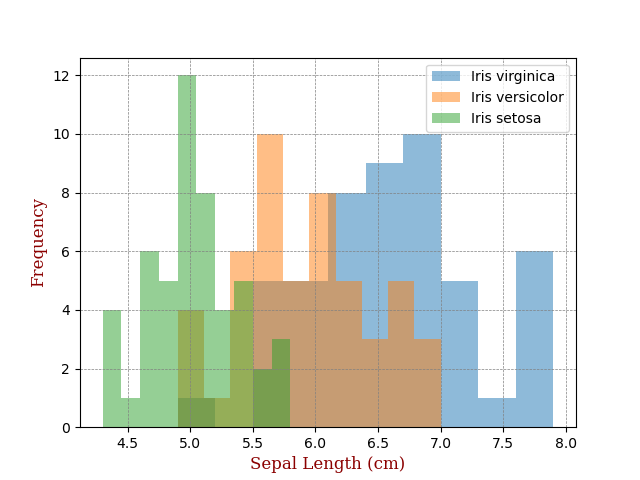
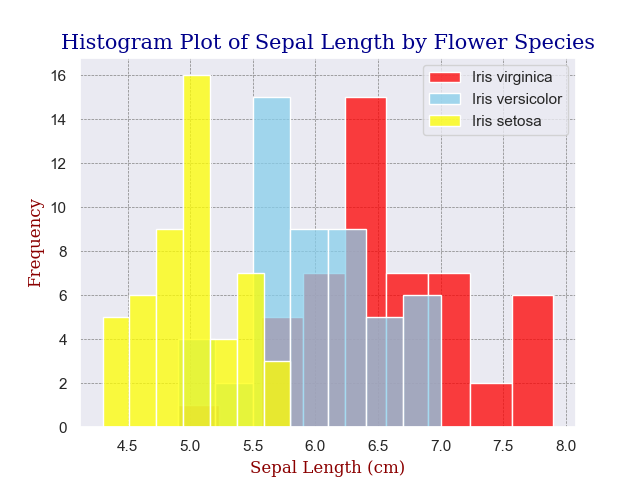
Addition of all four histogram functions and their corresponding plot

diff --git a/analysis.py b/analysis.py
@@ -39,33 +39,62 @@ iris_virginica = irisdata[irisdata["class"] == "Iris-virginica"] # [12]
 iris_versicolor = irisdata[irisdata["class"] == "Iris-versicolor"] # [12]
 iris_setosa = irisdata[irisdata["class"] == "Iris-setosa"]  # [12]
 
+sns.set(style="darkgrid") # sns.set_theme sts the backround colour of the grid
 # Histograms of Data
 # https://datavizpyr.com/overlapping-histograms-with-matplotlib-in-python/ [13]
 #sepal_length_histogram, axes = plt.subplots(figsize=(10,8))
 def histogram_sepal_length():
-    plt.hist(iris_virginica['sepallength'], alpha=0.5, label = "Iris virginica")
-    plt.hist(iris_versicolor['sepallength'], alpha=0.5, label = "Iris versicolor")
-    plt.hist(iris_setosa['sepallength'], alpha=0.5, label = "Iris setosa")
+    sns.histplot(data = iris_virginica['sepallength'], kde = False, label = 'Iris virginica', color = 'red') # https://www.python-graph-gallery.com/25-histogram-with-several-variables-seaborn [14]
+    sns.histplot(data = iris_versicolor['sepallength'], kde = False, label = 'Iris versicolor', color = 'skyblue')
+    sns.histplot(data = iris_setosa['sepallength'],  kde = False, label = 'Iris setosa', color = 'yellow')
     plt.xlabel("Sepal Length (cm)", fontdict = font2)
     plt.ylabel("Frequency", fontdict = font2)
+    plt.title("Histogram Plot of Sepal Length by Flower Species", fontdict = font1) 
     plt.grid(color = 'grey', ls = '--', lw = 0.5) 
     plt.legend(loc='upper right')
     plt.savefig("sepal_length_histogram")
+    plt.show()
 
-histogram_sepal_length()    
-
-def histogram_sepal_length2():
-    sns.histplot(iris_virginica['sepallength'], label = "Iris virginica", color = "red")
-    sns.histplot(iris_versicolor['sepallength'], label = "Iris versicolor", color = "blue")
-    sns.histplot(iris_setosa['sepallength'], label = "Iris setosa", color = "green")
-    plt.xlabel("Sepal Length (cm)", fontdict = font2)
+def histogram_sepal_width():
+    sns.histplot(data = iris_virginica['sepalwidth'], kde = False, label = 'Iris virginica', color = 'red') # https://www.python-graph-gallery.com/25-histogram-with-several-variables-seaborn [14]
+    sns.histplot(data = iris_versicolor['sepalwidth'], kde = False, label = 'Iris versicolor', color = 'skyblue')
+    sns.histplot(data = iris_setosa['sepalwidth'],  kde = False, label = 'Iris setosa', color = 'yellow')
+    plt.xlabel("Sepal Width (cm)", fontdict = font2)
     plt.ylabel("Frequency", fontdict = font2)
+    plt.title("Histogram Plot of Sepal Width by Flower Species", fontdict = font1) 
     plt.grid(color = 'grey', ls = '--', lw = 0.5) 
     plt.legend(loc='upper right')
-    plt.savefig("sepal_length_histogram_2")
-histogram_sepal_length2()
-#sns.histplot(data=penguins, x="flipper_length_mm", hue="species")
+    plt.savefig("sepal_width_histogram")
+    plt.show()
 
+def histogram_petal_length(): 
+    sns.histplot(data = iris_virginica['petallength'], kde = False, label = 'Iris virginica', color = 'red') # https://www.python-graph-gallery.com/25-histogram-with-several-variables-seaborn [14]
+    sns.histplot(data = iris_versicolor['petallength'], kde = False, label = 'Iris versicolor', color = 'skyblue')
+    sns.histplot(data = iris_setosa['petallength'],  kde = False, label = 'Iris setosa', color = 'yellow')
+    plt.xlabel("Petal Length (cm)", fontdict = font2)
+    plt.ylabel("Frequency", fontdict = font2)
+    plt.title("Histogram Plot of Petal Length by Flower Species", fontdict = font1) 
+    plt.grid(color = 'grey', ls = '--', lw = 0.5) 
+    plt.legend(loc='upper right')
+    plt.savefig("petal_length_histogram")
+    plt.show()
+
+def histogram_petal_width():
+    sns.histplot(data = iris_virginica['petalwidth'], kde = False, label = 'Iris virginica', color = 'red') # https://www.python-graph-gallery.com/25-histogram-with-several-variables-seaborn [14]
+    sns.histplot(data = iris_versicolor['petalwidth'], kde = False, label = 'Iris versicolor', color = 'skyblue')
+    sns.histplot(data = iris_setosa['petalwidth'],  kde = False, label = 'Iris setosa', color = 'yellow')
+    plt.xlabel("Petal Width (cm)", fontdict = font2)
+    plt.ylabel("Frequency", fontdict = font2)
+    plt.title("Histogram Plot of Petal Width by Flower Species", fontdict = font1) 
+    plt.grid(color = 'grey', ls = '--', lw = 0.5) 
+    plt.legend(loc='upper right')
+    plt.savefig("petal_width_histogram")
+    plt.show()
+
+histogram_sepal_length() 
+histogram_sepal_width() 
+histogram_petal_length()
+histogram_petal_width()
 
 # https://datahub.io/machine-learning/iris data set source on 17/04/2021
 # https://www.kaggle.com/kashnitsky/topic-1-exploratory-data-analysis-with-pandas [2] pandas 19/04/2021
@@ -80,3 +109,4 @@ histogram_sepal_length2()
 # https://seaborn.pydata.org/ seaborn [11] 17/04/2021
 # https://pandas.pydata.org/docs/getting_started/intro_tutorials/03_subset_data.html grouping the variables [12] 24/04/2021
 # https://datavizpyr.com/overlapping-histograms-with-matplotlib-in-python/  [13]
+# https://www.python-graph-gallery.com/25-histogram-with-several-variables-seaborn [14]
